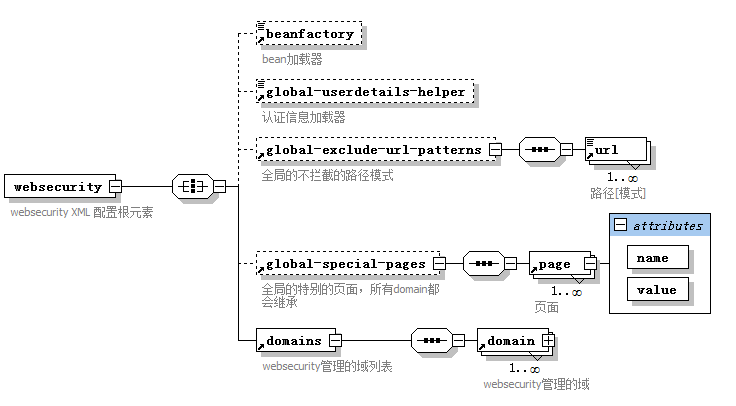
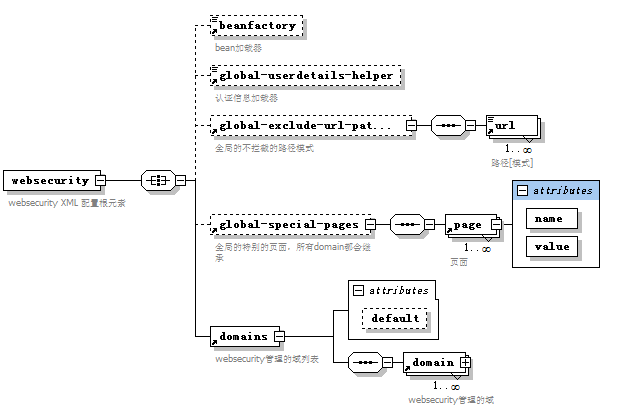
增加获取和设置默认domain功能

Changed region(s): [[0.0, 0.0296, 0.9854, 0.9754]]

diff --git a/src/main/java/my/websecurity/support/SecurityApplicaionContext.java b/src/main/java/my/websecurity/support/SecurityApplicaionContext.java
@@ -10,7 +10,6 @@ import my.websecurity.support.metadata.impl.SessionUserDetailsHelper;
 import my.websecurity.util.UrlMatcher;
 import my.websecurity.util.impl.AntUrlPathMatcher;
 
-
 /**
  * 安全框架配置上下文
  * 
@@ -38,6 +37,11 @@ public abstract class SecurityApplicaionContext {
 	 * 全局的特别的页面
 	 */
 	private Map<String, String> globalSpecialPages;
+	
+	/** 
+	 * 默认domain名称
+	 */
+	private String defaultDomain;
 	
 	/**
 	 * 安全框架domain配置
@@ -98,6 +102,17 @@ public abstract class SecurityApplicaionContext {
 	}
 	
 	/**
+	 * 获取默认的SecurityDomainConfiguration
+	 * 
+	 * @return
+	 * @see #defaultDomain
+	 */
+	public SecurityDomainConfiguration getDefaultSecurityDomainConfiguration() {
+		return getSecurityDomainConfiguration(defaultDomain);
+	}
+
+	
+	/**
 	 * 通过名称获取SecurityDomainConfiguration
 	 * 
 	 * @param name
@@ -155,6 +170,22 @@ public abstract class SecurityApplicaionContext {
 		return globalSpecialPages;
 	}
 
+	public String getDefaultDomain() {
+		return defaultDomain;
+	}
+
+	public void setDefaultDomain(String defaultDomain) {
+		this.defaultDomain = defaultDomain;
+	}
+
+	public UrlMatcher getUrlMatcher() {
+		return urlMatcher;
+	}
+
+	public void setUrlMatcher(UrlMatcher urlMatcher) {
+		this.urlMatcher = urlMatcher;
+	}
+
 	/**
 	 * @param globalSpecialPages the globalSpecialPages to set
 	 */
@@ -169,6 +200,7 @@ public abstract class SecurityApplicaionContext {
 		sb.append("globalUserDetailsHelper = ").append(globalUserDetailsHelper.getClass().getName()).append(", ");
 		sb.append("globalExcludeUrlPatterns = ").append(globalExcludeUrlPatterns).append(", ");
 		sb.append("globalSpecialPages = ").append(globalSpecialPages).append(", ");
+		sb.append("defaultDomain = ").append(defaultDomain).append(", ");
 		sb.append("securityDomainConfigurations = ").append(securityDomainConfigurations);
 		return sb.append("]").toString();
 	}

diff --git a/src/main/java/my/websecurity/support/builder/xml/XmlSecurityApplicaionContext.java b/src/main/java/my/websecurity/support/builder/xml/XmlSecurityApplicaionContext.java
@@ -17,6 +17,7 @@ import my.websecurity.support.SecurityApplicaionContext;
 import my.websecurity.support.SecurityDomainConfiguration;
 import my.websecurity.support.metadata.UserDetailsHelper;
 
+import org.dom4j.Attribute;
 import org.dom4j.Document;
 import org.dom4j.DocumentException;
 import org.dom4j.Element;
@@ -27,7 +28,6 @@ import org.slf4j.LoggerFactory;
 import org.xml.sax.EntityResolver;
 import org.xml.sax.InputSource;
 import org.xml.sax.SAXException;
-
 
 /**
  * 配置
@@ -221,6 +221,10 @@ public class XmlSecurityApplicaionContext extends SecurityApplicaionContext {
 	
 	private void buildSecurityDomainConfigurations(Element root) throws SecurityConfigurationException {
 		try {
+			// 生成domains
+			Attribute defaultAttribute = (Attribute) root.selectSingleNode("./domains/@default");
+			String defaultDomain = defaultAttribute != null ? defaultAttribute.getValue() : null;
+			
 			// 生成domain(SecurityDomainConfiguration)
 			List<SecurityDomainConfiguration> securityDomainConfigurations = new ArrayList<SecurityDomainConfiguration>(); // 安全框架domain配置
 			List<?> nodes = root.selectNodes("./domains/domain");
@@ -281,8 +285,10 @@ public class XmlSecurityApplicaionContext extends SecurityApplicaionContext {
 				domainConfig.setInterceptors(new ArrayList<Interceptor>(interceptors));
 				securityDomainConfigurations.add(domainConfig);
 			}
-			
-			this.setSecurityDomainConfigurations(securityDomainConfigurations); // securityDomainConfigurations
+			// set default domain
+			this.setDefaultDomain(defaultDomain != null ? defaultDomain : securityDomainConfigurations.get(0).getName());
+			// set securityDomainConfigurations
+			this.setSecurityDomainConfigurations(securityDomainConfigurations);
 		} catch (Exception e) {
 			throw new SecurityConfigurationException("init config domains fail...", e);
 		}

diff --git a/src/main/java/my/websecurity/taglibs/SecurityTagSupport.java b/src/main/java/my/websecurity/taglibs/SecurityTagSupport.java
@@ -12,7 +12,6 @@ import my.websecurity.support.SecurityDomainConfiguration;
 import my.websecurity.support.SecurityServletContext;
 import my.websecurity.support.metadata.UserDetails;
 
-
 /**
  * webSecurity系统标签的支持类
  * 
@@ -46,7 +45,8 @@ public class SecurityTagSupport extends TagSupport {
 		ServletResponse response = pageContext.getResponse();
 		if(request instanceof HttpServletRequest) {
 			SecurityApplicaionContext context = SecurityApplicaionContextHolder.getSecurityApplicaionContext();
-			SecurityDomainConfiguration configuration = context.getSecurityDomainConfiguration(domain);
+			SecurityDomainConfiguration configuration = 
+				isEmpty(domain) ? context.getDefaultSecurityDomainConfiguration() : context.getSecurityDomainConfiguration(domain);
 			return configuration != null ? context.getGlobalUserDetailsHelper().loadUserDetails(new SecurityServletContext((HttpServletRequest)request, (HttpServletResponse)response), configuration) : null;
 		} else {
 			return null;
@@ -63,7 +63,7 @@ public class SecurityTagSupport extends TagSupport {
 		ServletRequest request = pageContext.getRequest();
 		if(request instanceof HttpServletRequest) {
 			SecurityApplicaionContext context = SecurityApplicaionContextHolder.getSecurityApplicaionContext();
-			return context.getSecurityDomainConfiguration(domain);
+			return isEmpty(domain) ? context.getDefaultSecurityDomainConfiguration() : context.getSecurityDomainConfiguration(domain);
 		} else {
 			return null;
 		}
